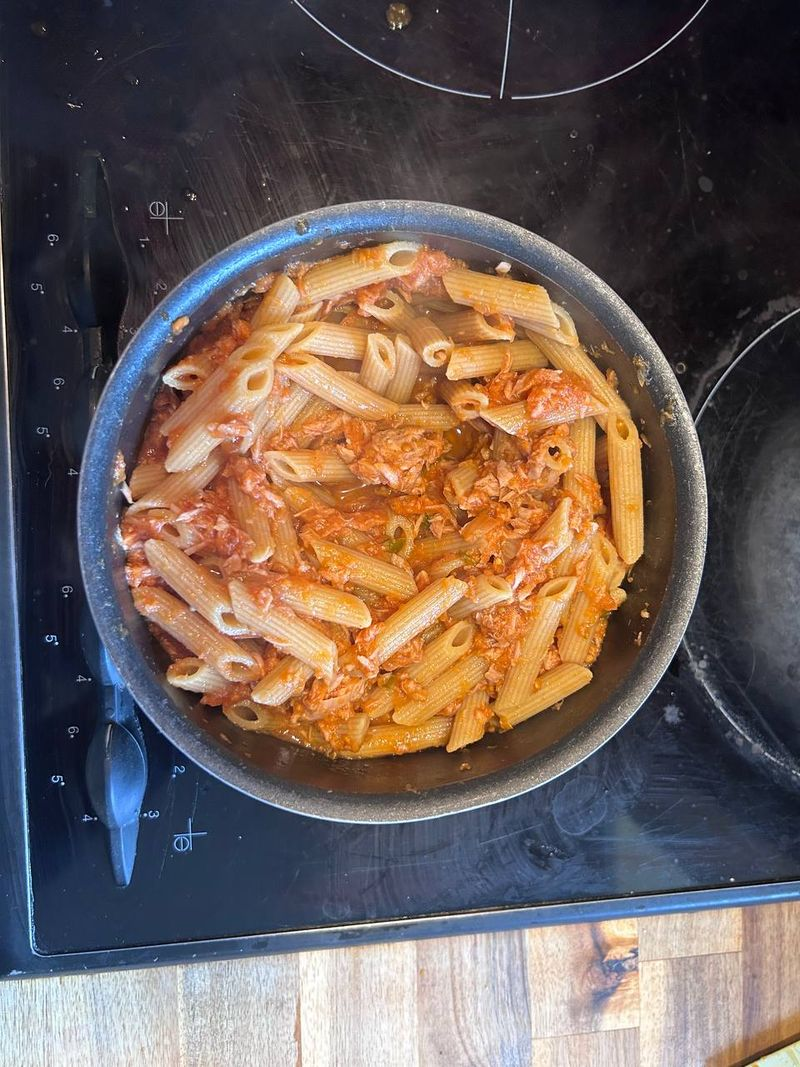
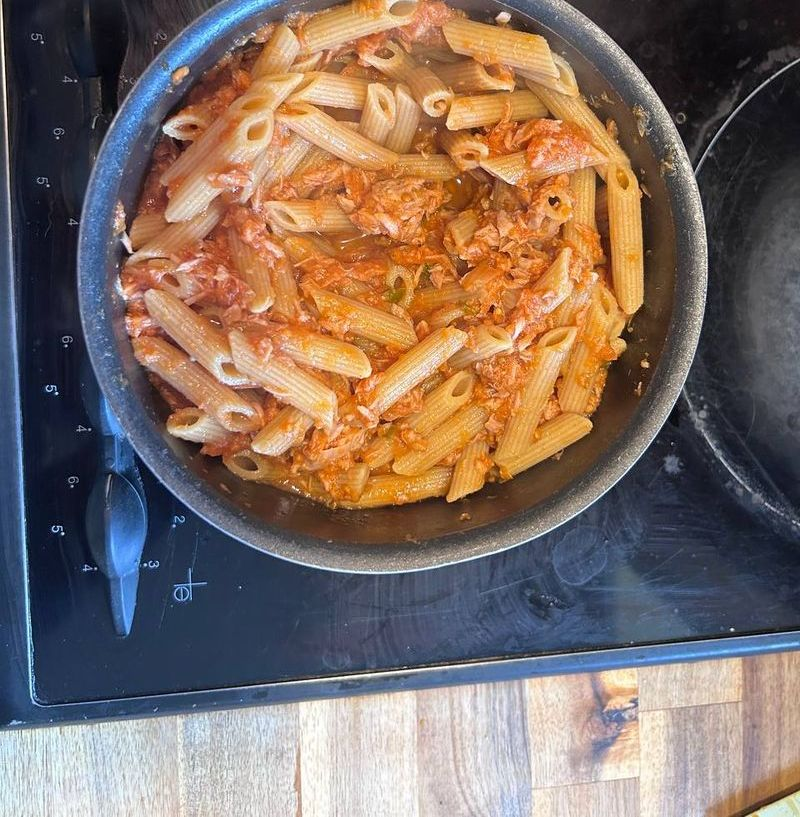
fix: crop photos pâtes thon-tomate — table supprimée (top 250px coupé)

diff --git a/recettes/pates-thon-tomate.html b/recettes/pates-thon-tomate.html
@@ -25,8 +25,8 @@
             <!-- Carrousel photos -->
             <div class="recipe-hero-image carousel-container">
                 <div class="carousel-track">
-                    <img src="../images/pates-thon-tomate.jpg" alt="Pâtes Thon-Tomate" class="carousel-slide active" style="width:100%;height:100%;object-fit:cover;object-position:center bottom;border-radius:16px;">
-                    <img src="../images/pates-thon-tomate-2.jpg" alt="Pâtes Thon-Tomate (2)" class="carousel-slide" style="width:100%;height:100%;object-fit:cover;object-position:center bottom;border-radius:16px;">
+                    <img src="../images/pates-thon-tomate.jpg" alt="Pâtes Thon-Tomate" class="carousel-slide active" style="width:100%;height:100%;object-fit:cover;border-radius:16px;">
+                    <img src="../images/pates-thon-tomate-2.jpg" alt="Pâtes Thon-Tomate (2)" class="carousel-slide" style="width:100%;height:100%;object-fit:cover;border-radius:16px;">
                 </div>
                 <button class="carousel-btn prev" onclick="moveCarousel(-1)">❮</button>
                 <button class="carousel-btn next" onclick="moveCarousel(1)">❯</button>
